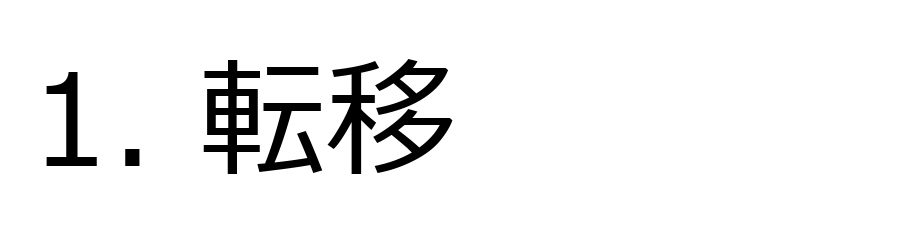
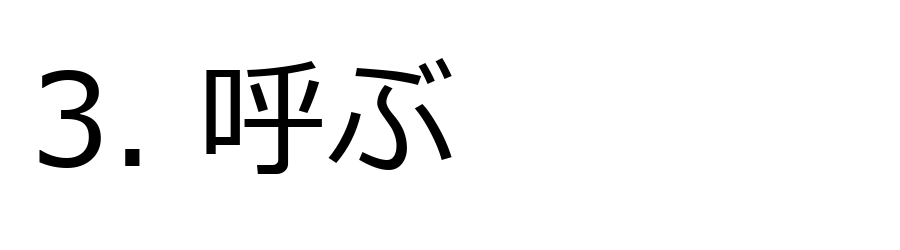
Fix bugs: skipped final question; rquiz ended

Changed region(s): [[0.2178, 0.224, 0.5289, 0.7], [0.0311, 0.28, 0.1244, 0.672]]

diff --git a/modules/rquiz.py b/modules/rquiz.py
@@ -61,6 +61,9 @@ class RQuiz:
             self.reset_current_try()
             await message.channel.send("Question skipped.")
             await message.channel.send("Correct answer: {}".format(current_row["Hiragana"]))
+            finished = await self.check_finished(message)
+            if finished:
+                return True
             await self.send_question(message)
             return
         if message.content == current_row["Hiragana"] or message.content.lower() == katsu.romaji(current_row["Hiragana"]).lower():
@@ -85,7 +88,6 @@ class RQuiz:
 
     async def send_question(self, message):
         current_row = self.get_data().iloc[self.get_current()]
-        # await message.channel.send("{number}. {kanji}".format(number=self.get_current() + 1, kanji=current_row["Kanji"]))
         await utils.text_to_image(message, current_row["Kanji"], self.get_current() + 1)
 
     async def check_finished(self, message):

diff --git a/main.py b/main.py
@@ -42,12 +42,14 @@ async def on_message(message):
             finished = await data[data_key].resume(message)
             if finished:
                 data.pop(data_key)
+            return
 
         # Meaning quiz
         if data[data_key].get_type() == "mquiz":
             finished = await data[data_key].resume(message)
             if finished:
                 data.pop(data_key)
+            return
     else:
         if message.content.lower().startswith("0pri ") or message.content.lower().startswith("0p "):
             message_list = message.content.split(" ")

diff --git a/modules/mquiz.py b/modules/mquiz.py
@@ -59,6 +59,9 @@ class MQuiz:
             self.reset_current_try()
             await message.channel.send("Question skipped.")
             await message.channel.send("Correct answer: {}; Hiragana: {}".format(current_row["Meaning"], current_row["Hiragana"]))
+            finished = await self.check_finished(message)
+            if finished:
+                return True
             await self.send_question(message)
             return
         splitted_message = message.content.lower().split(", ")
